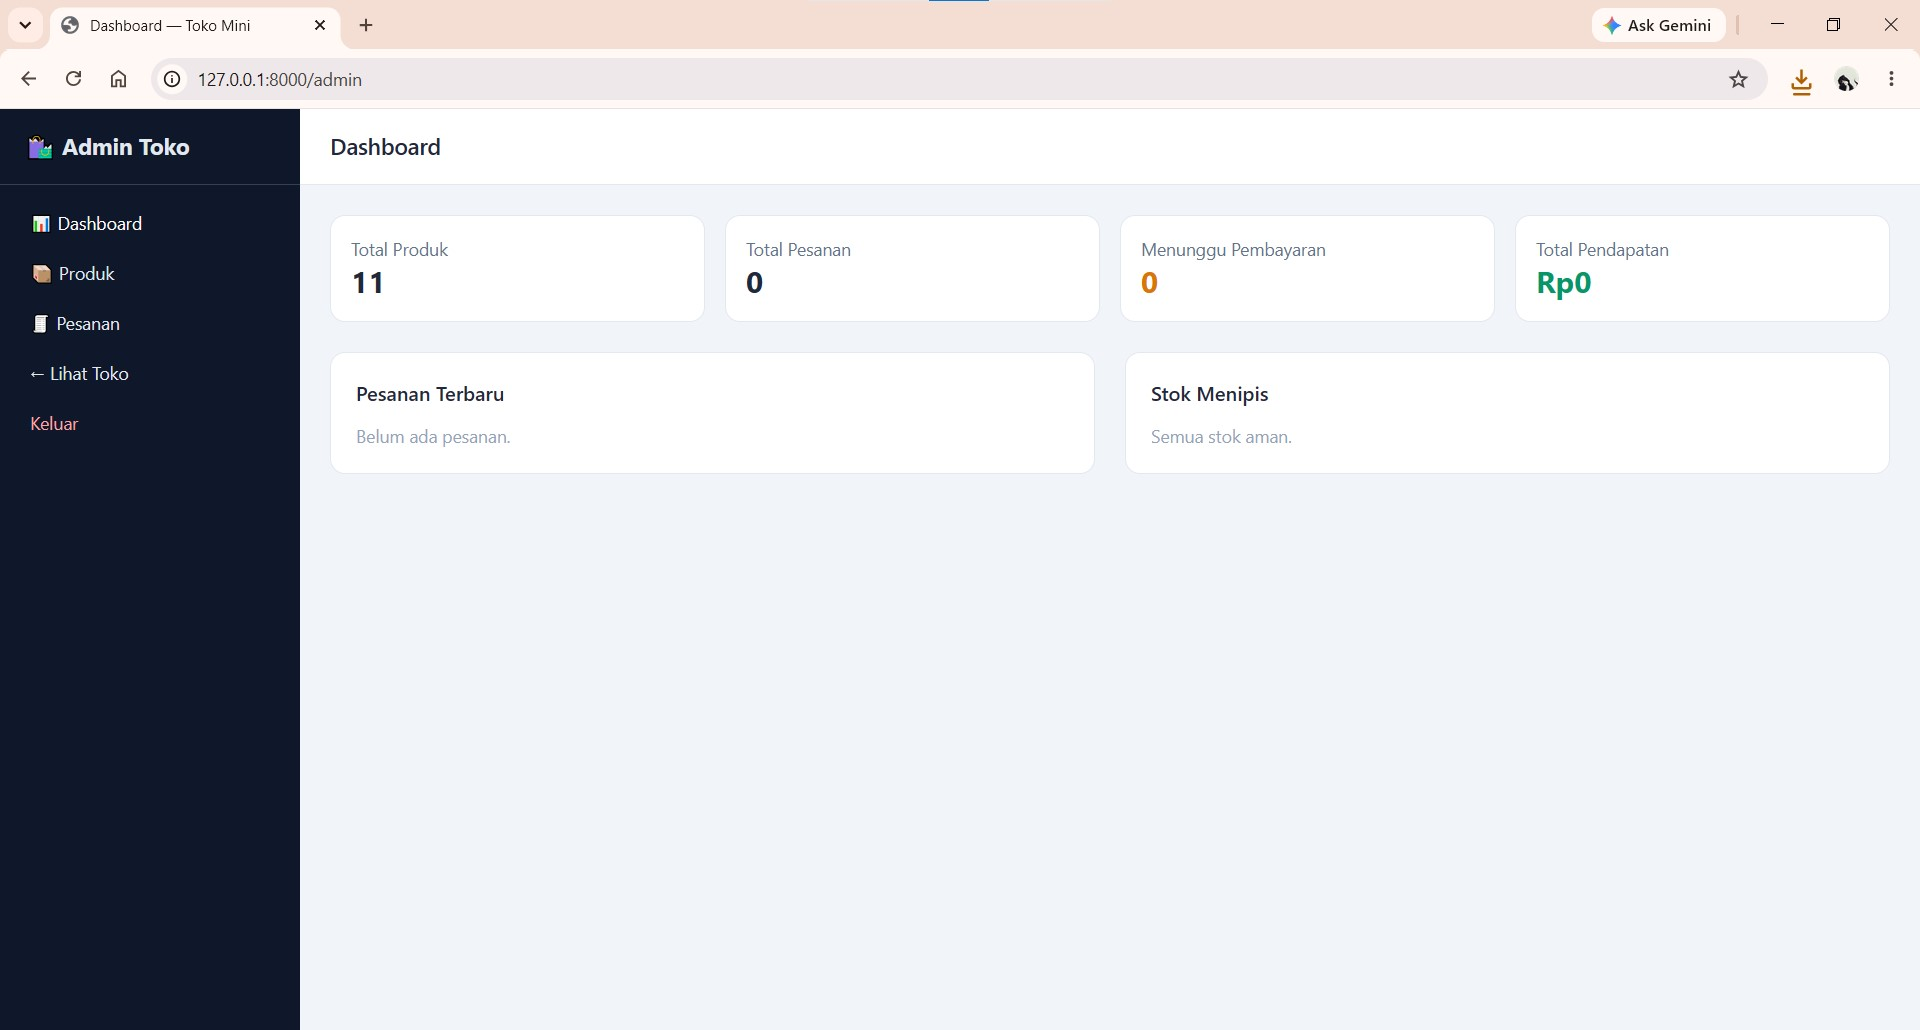
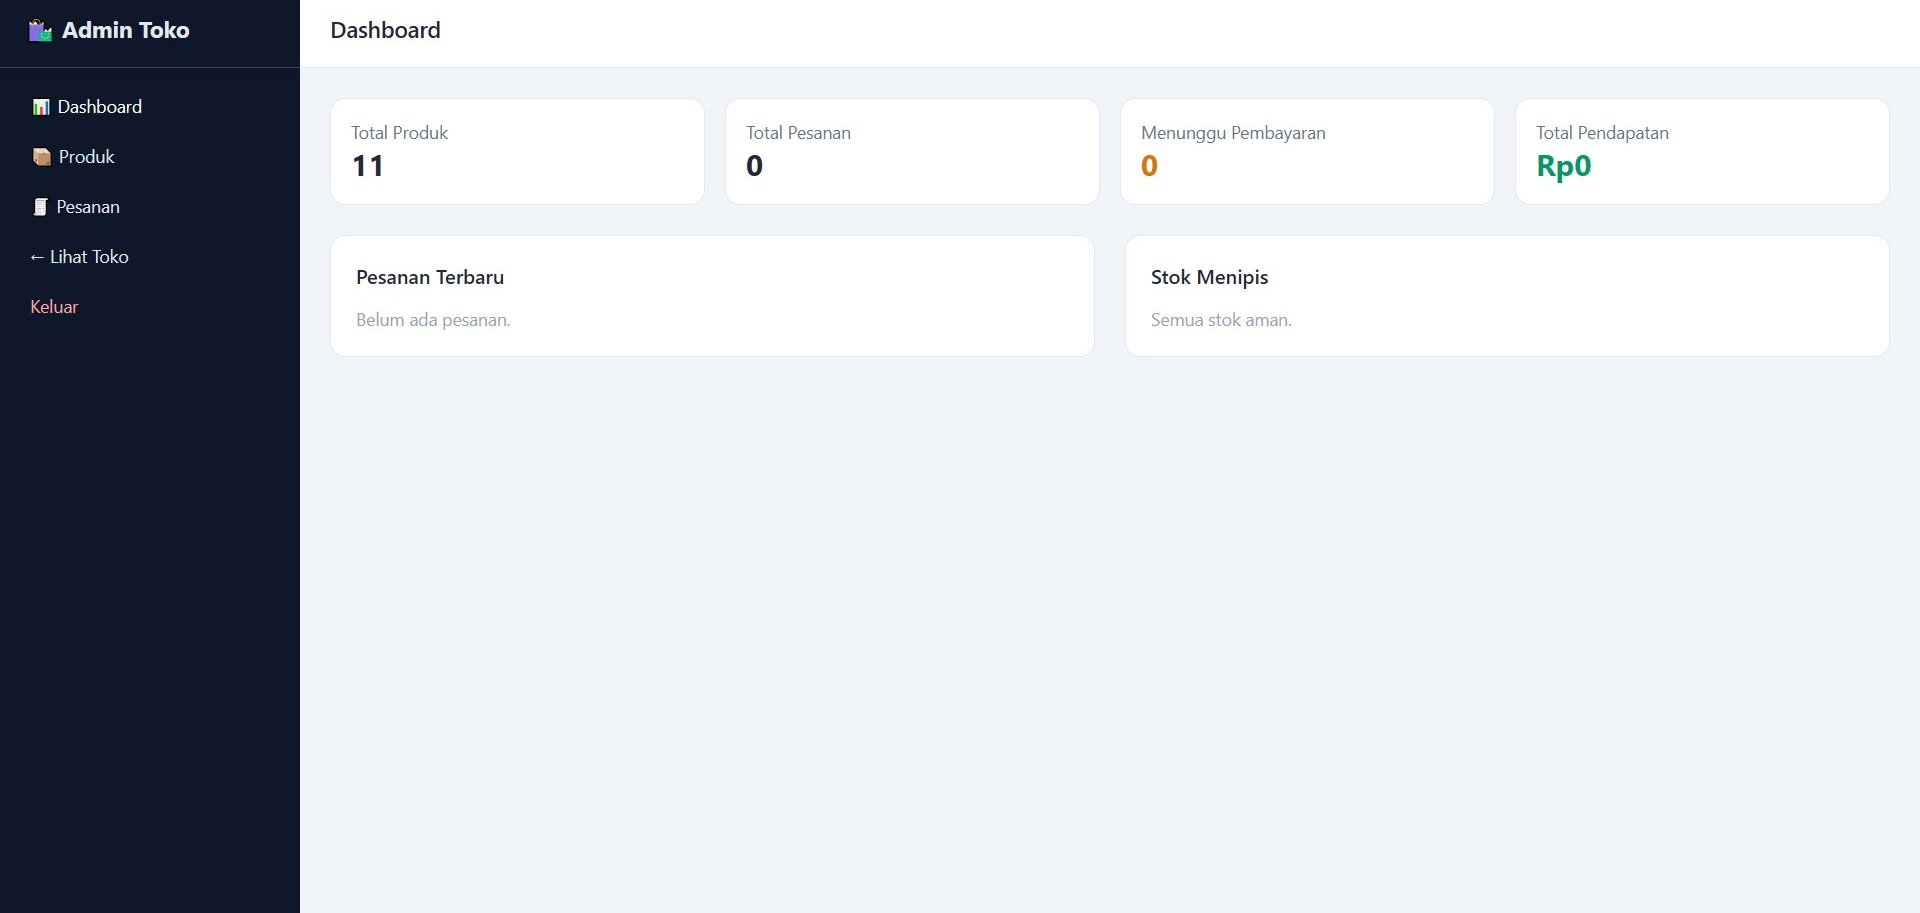
add project and tech skill

diff --git a/components.js b/components.js
@@ -95,6 +95,7 @@ const COMP_SKILLS = `
           <div class="tech-item"><img src="https://cdn.jsdelivr.net/gh/devicons/devicon/icons/typescript/typescript-original.svg" alt="TypeScript"/><span>TypeScript</span></div>
           <div class="tech-item"><img src="https://cdn.jsdelivr.net/gh/devicons/devicon/icons/java/java-original.svg" alt="Java"/><span>Java</span></div>
           <div class="tech-item"><img src="https://cdn.jsdelivr.net/gh/devicons/devicon/icons/go/go-original.svg" alt="Golang"/><span>Golang</span></div>
+          <div class="tech-item"><img src="https://cdn.jsdelivr.net/gh/devicons/devicon/icons/csharp/csharp-original.svg" alt="C#"/><span>C#</span></div>
         </div>
       </div>
       <div class="tech-group">
@@ -105,6 +106,7 @@ const COMP_SKILLS = `
           <div class="tech-item"><img src="https://cdn.jsdelivr.net/gh/devicons/devicon/icons/tailwindcss/tailwindcss-original.svg" alt="TailwindCSS"/><span>TailwindCSS</span></div>
           <div class="tech-item"><img src="https://cdn.jsdelivr.net/gh/devicons/devicon/icons/laravel/laravel-original.svg" alt="Laravel"/><span>Laravel</span></div>
           <div class="tech-item"><img src="https://cdn.jsdelivr.net/gh/devicons/devicon/icons/spring/spring-original.svg" alt="Spring Boot"/><span>Spring Boot</span></div>
+          <div class="tech-item"><img src="https://cdn.jsdelivr.net/gh/devicons/devicon/icons/dotnetcore/dotnetcore-original.svg" alt="ASP.NET Core"/><span>ASP.NET Core</span></div>
         </div>
       </div>
     </div>
@@ -257,6 +259,51 @@ const COMP_PROJECTS = `
         </div>
         <div class="project-stack" style="margin-top:1rem">
           <span class="tag">Laravel 13</span><span class="tag">PHP</span><span class="tag">TailwindCSS</span><span class="tag">Blade</span><span class="tag">SQLite</span><span class="tag">Midtrans</span>
+        </div>
+      </div>
+    </div>
+
+    <!-- PROJ_04: Sistem Manajemen Inventaris -->
+    <div class="project-card project-card-featured reveal">
+      <div class="project-screenshots" id="slider-inventaris">
+        <div class="screenshots-track" id="track-inventaris">
+          <img src="projek04-dashboard.jpg" alt="Dashboard Sistem Manajemen Inventaris" class="gallery-img" data-gallery="inventaris" data-idx="0"/>
+          <img src="projek04-barang.jpg"    alt="Daftar Barang & Master Data"           class="gallery-img" data-gallery="inventaris" data-idx="1"/>
+          <img src="projek04-transaksi.jpg" alt="Form Ajukan Transaksi Stok"            class="gallery-img" data-gallery="inventaris" data-idx="2"/>
+        </div>
+        <div class="screenshots-dots">
+          <button class="dot-btn-inv active" data-idx="0"></button>
+          <button class="dot-btn-inv"        data-idx="1"></button>
+          <button class="dot-btn-inv"        data-idx="2"></button>
+        </div>
+        <button class="screenshots-expand" data-gallery="inventaris" data-idx="0" aria-label="Fullscreen">
+          <svg width="16" height="16" viewBox="0 0 24 24" fill="none" stroke="currentColor" stroke-width="2.5" stroke-linecap="round" stroke-linejoin="round"><path d="M8 3H5a2 2 0 0 0-2 2v3"/><path d="M21 8V5a2 2 0 0 0-2-2h-3"/><path d="M3 16v3a2 2 0 0 0 2 2h3"/><path d="M16 21h3a2 2 0 0 0 2-2v-3"/></svg>
+        </button>
+      </div>
+      <div class="project-header" style="padding-top:1.5rem">
+        <span class="project-num">PROJ_04</span>
+        <a href="https://github.com/ivillop/inventory-ms" target="_blank" class="project-link">↗ GitHub</a>
+      </div>
+      <div class="project-body">
+        <div class="project-title" data-i18n="proj4.title">Inventaris — Sistem Manajemen Inventaris</div>
+        <div class="project-desc"  data-i18n="proj4.desc">Aplikasi web manajemen inventaris barang dengan alur persetujuan dua tingkat (Staff → Manager → Admin), dibangun menggunakan ASP.NET Core MVC (.NET 8) sebagai proyek pembelajaran ekosistem .NET. Stok hanya berubah setelah persetujuan final Admin — pengajuan yang belum tuntas tidak memengaruhi angka stok. Seeder otomatis mengisi role, akun contoh, dan data dummy saat aplikasi pertama kali dijalankan.</div>
+        <div class="project-feature-list">
+          <span class="pf-item" data-i18n="proj4.f1">📦 CRUD Kategori, Supplier &amp; Barang</span>
+          <span class="pf-item" data-i18n="proj4.f2">✅ Approval 2 Tingkat (Manager → Admin)</span>
+          <span class="pf-item" data-i18n="proj4.f3">🔐 Role-based Access (Admin, Manager, Staff)</span>
+          <span class="pf-item" data-i18n="proj4.f4">⚠ Peringatan Stok Minimum</span>
+          <span class="pf-item" data-i18n="proj4.f5">📊 Export Laporan ke Excel (.xlsx)</span>
+          <span class="pf-item" data-i18n="proj4.f6">🌱 Seeder Otomatis Data &amp; Akun</span>
+        </div>
+        <div class="project-stack" style="margin-top:1rem">
+          <span class="tag">ASP.NET Core MVC</span>
+          <span class="tag">C#</span>
+          <span class="tag">.NET 8</span>
+          <span class="tag">Entity Framework Core</span>
+          <span class="tag">ASP.NET Identity</span>
+          <span class="tag">SQLite</span>
+          <span class="tag">Bootstrap 5</span>
+          <span class="tag">ClosedXML</span>
         </div>
       </div>
     </div>

diff --git a/main.js b/main.js
@@ -69,6 +69,14 @@ const translations = {
     "proj3.f3":            "🛠 Panel Admin",
     "proj3.f4":            "📦 CRUD Produk & Kategori",
     "proj3.f5":            "🔐 Role-based Access",
+    "proj4.title":         "Inventaris — Sistem Manajemen Inventaris",
+    "proj4.desc":          "Aplikasi web manajemen inventaris barang dengan alur persetujuan dua tingkat (Staff → Manager → Admin), dibangun menggunakan ASP.NET Core MVC (.NET 8) sebagai proyek pembelajaran ekosistem .NET. Stok hanya berubah setelah persetujuan final Admin — pengajuan yang belum tuntas tidak memengaruhi angka stok. Seeder otomatis mengisi role, akun contoh, dan data dummy saat aplikasi pertama kali dijalankan.",
+    "proj4.f1":            "📦 CRUD Kategori, Supplier & Barang",
+    "proj4.f2":            "✅ Approval 2 Tingkat (Manager → Admin)",
+    "proj4.f3":            "🔐 Role-based Access (Admin, Manager, Staff)",
+    "proj4.f4":            "⚠ Peringatan Stok Minimum",
+    "proj4.f5":            "📊 Export Laporan ke Excel (.xlsx)",
+    "proj4.f6":            "🌱 Seeder Otomatis Data & Akun",
     // Experience
     "exp.label":           "03 — Pengalaman",
     "exp.title":           "Perjalanan karier",
@@ -164,6 +172,14 @@ const translations = {
     "proj3.f3":            "🛠 Admin Panel",
     "proj3.f4":            "📦 Product & Category CRUD",
     "proj3.f5":            "🔐 Role-based Access",
+    "proj4.title":         "Inventaris — Inventory Management System",
+    "proj4.desc":          "Web-based inventory management app with a two-tier approval flow (Staff → Manager → Admin), built with ASP.NET Core MVC (.NET 8) as a .NET ecosystem learning project. Stock only changes after final Admin approval — pending submissions do not affect stock figures. An auto-seeder populates roles, sample accounts, and dummy data on first run.",
+    "proj4.f1":            "📦 CRUD Category, Supplier & Item",
+    "proj4.f2":            "✅ 2-Tier Approval (Manager → Admin)",
+    "proj4.f3":            "🔐 Role-based Access (Admin, Manager, Staff)",
+    "proj4.f4":            "⚠ Low Stock Warning",
+    "proj4.f5":            "📊 Export Reports to Excel (.xlsx)",
+    "proj4.f6":            "🌱 Auto-seeder for Data & Accounts",
     // Experience
     "exp.label":           "03 — Experience",
     "exp.title":           "Career journey",
@@ -371,6 +387,8 @@ initSlider("#slider-kelola .screenshots-track", "#slider-kelola .dot-btn");
 initSlider("#track-realtime", ".dot-btn-rt");
 // PROJ_03 — Ecommerce (dot-btn-ec)
 initSlider("#track-ecommerce", ".dot-btn-ec");
+// PROJ_04 — Inventaris (dot-btn-inv)
+initSlider("#track-inventaris", ".dot-btn-inv");
 
 // ── CV Download Modal ──
 (function () {

diff --git a/css/sections.css b/css/sections.css
@@ -126,7 +126,8 @@
 }
 .dot-btn,
 .dot-btn-rt,
-.dot-btn-ec {
+.dot-btn-ec,
+.dot-btn-inv {
   width: 7px;
   height: 7px;
   border-radius: 50%;
@@ -140,7 +141,8 @@
 }
 .dot-btn.active,
 .dot-btn-rt.active,
-.dot-btn-ec.active {
+.dot-btn-ec.active,
+.dot-btn-inv.active {
   background: #fff;
   transform: scale(1.3);
 }
